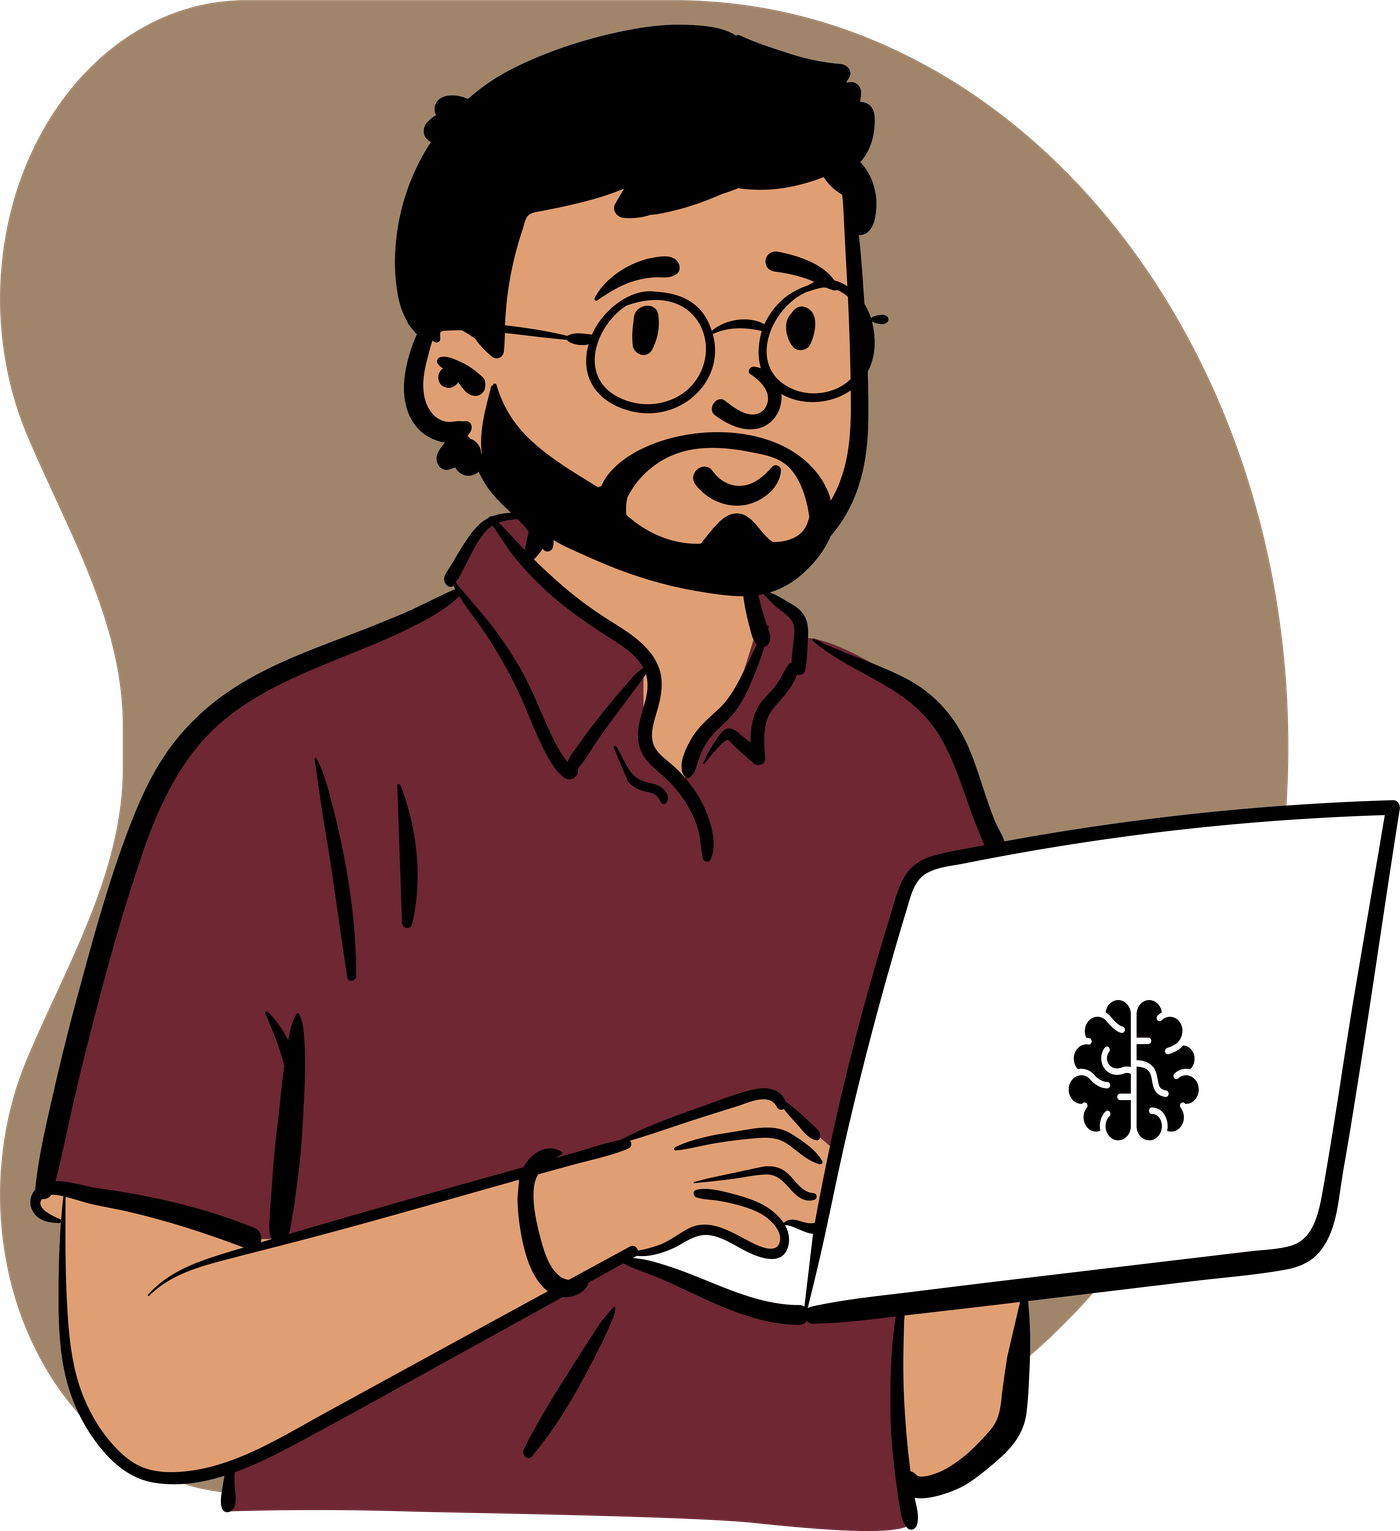
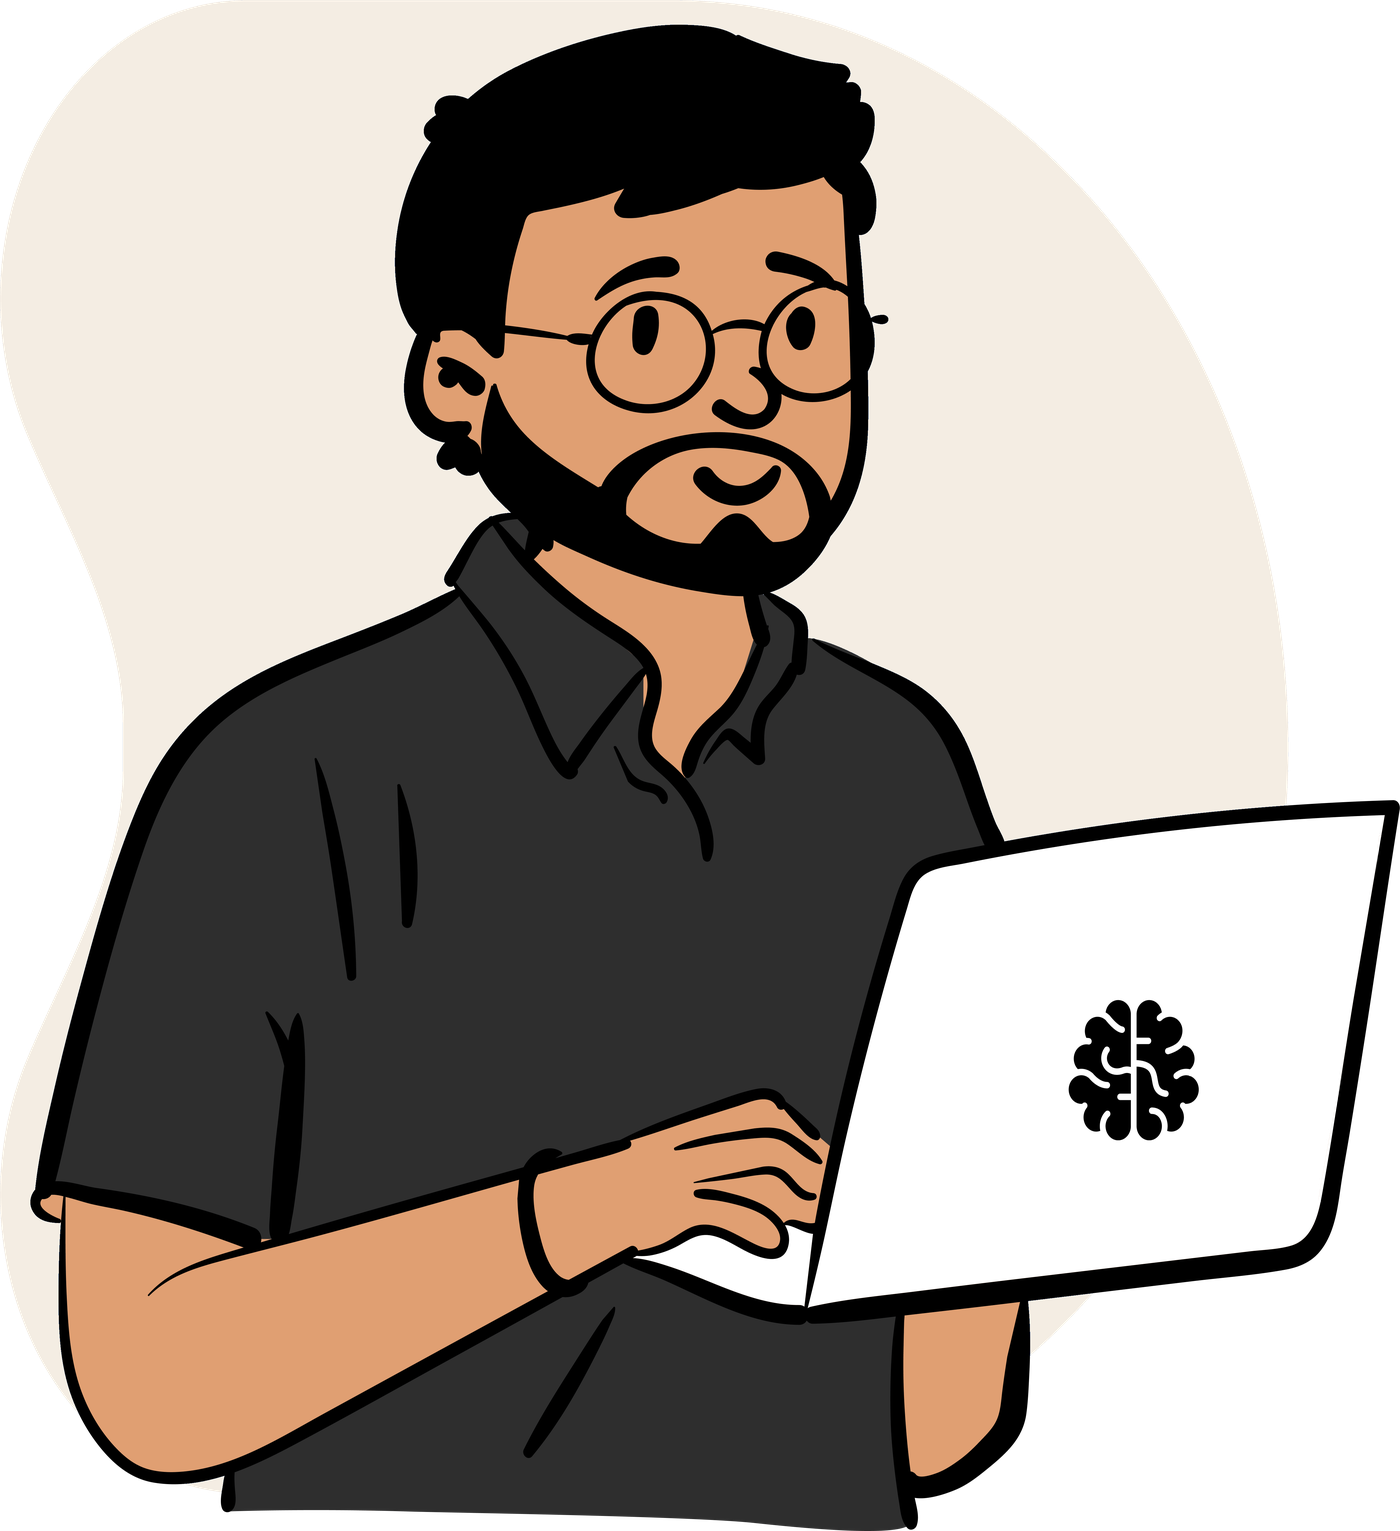
Homepage: research-first layout with Research/Data toggle + expandable Profile
Sliding switch swaps a data-driven project gallery (data/projects_*.yaml); Data track shows a coming-soon panel until entries exist. Profile button expands full CV inline. Nav simplified; hero unchanged.

Claude-Session: https://claude.ai/code/session_019dGmd9fw6D4sxH2Wq3JDTQ

diff --git a/static/css/index.css b/static/css/index.css
@@ -640,8 +640,17 @@ header .navbar { border-bottom: 2px solid var(--text-color); }
 header .navbar-nav a { text-transform: uppercase; letter-spacing: .05em; font-size: 14px; font-weight: 500; }
 
 #hero, #about, #experience, #education, #conferences, #contact { padding: 58px 0; }
+/* centered content column + gutters */
 #hero .container, #about .container, #experience .container, #education .container,
-#conferences .container, #contact .container { max-width: 1200px; }
+#projects .container, #conferences .container, #contact .container,
+footer .footer-inner {
+  max-width: 1120px; margin-left: auto; margin-right: auto;
+  padding-left: 28px; padding-right: 28px;
+}
+header .navbar > .container-fluid {
+  max-width: 1120px; margin-left: auto !important; margin-right: auto !important;
+  padding-left: 28px; padding-right: 28px;
+}
 
 .sec-label { font-family:'Bricolage Grotesque',sans-serif; font-size:14px; font-weight:600;
   letter-spacing:.06em; text-transform:uppercase; color: var(--text-link-color); margin:0 0 6px; }
@@ -766,3 +775,65 @@ footer .footer-links a:hover { color:var(--text-link-color) !important; }
 .proj-icon { color:var(--text-color) !important; font-size:16px; }
 .proj-icon:hover { color:var(--text-link-color) !important; }
 @media (max-width:900px){ .proj-grid{ grid-template-columns:1fr; } }
+
+
+/* ===== Direction D — oxblood lead ===== */
+.sec-head, .contact-head { color: var(--primary-color) !important; }
+
+/* deep oxblood hero band */
+#hero { background:#5A1E29; border-bottom-color:#2f0f16; }
+#hero .hero-role { color:#E6C98A !important; }
+#hero .hero-name { color:#F4EDE3 !important; }
+#hero .hero-tag { color:#EAD6D6 !important; }
+#hero a.btn.btn-fill { background:#F4EDE3 !important; color:#5A1E29 !important; border-color:#F4EDE3 !important; }
+#hero a.btn.btn-line { border-color:rgba(244,237,227,.6) !important; color:#F4EDE3 !important; }
+#hero .hero-social a.btn, #hero a.btn.social-icon { border-color:rgba(244,237,227,.6) !important; color:#F4EDE3 !important; }
+
+/* readable body text on cream */
+.about-content { opacity:1 !important; }
+.exp-desc, .edu-desc, .conf-note, .contact-tag { color: var(--text-secondary-color) !important; }
+
+
+/* ===== Homepage toggle + work + profile ===== */
+.hero-switchrow{display:flex; align-items:flex-end; justify-content:space-between; gap:20px; flex-wrap:wrap; margin-top:6px;}
+.switch-label{font-family:'IBM Plex Mono',monospace; font-size:12px; letter-spacing:.05em; text-transform:uppercase; color:var(--gold,#E6C98A); margin:0 0 8px;}
+.seg{position:relative; display:inline-flex; border:2px solid #F4EDE3; background:transparent;}
+.seg .thumb{position:absolute; top:0; left:0; bottom:0; width:50%; background:#F4EDE3; transition:transform .25s cubic-bezier(.4,.1,.2,1);}
+.seg[data-i="1"] .thumb{transform:translateX(100%);}
+.seg button{position:relative; z-index:1; font-family:'Bricolage Grotesque',sans-serif; font-weight:700; font-size:16px; padding:11px 24px; background:transparent; border:0; cursor:pointer; color:#F4EDE3; transition:color .2s; min-width:150px;}
+.seg button.on{color:#5A1E29;}
+.btn-profile{font-family:'Bricolage Grotesque',sans-serif; font-weight:700; font-size:16px; padding:12px 20px; background:transparent; color:#F4EDE3; border:2px solid rgba(244,237,227,.5); cursor:pointer;}
+.btn-profile:hover{border-color:#F4EDE3;}
+
+#work{padding:44px 0 56px; border-bottom:2px solid var(--text-color);}
+#work .container{max-width:1120px; margin-inline:auto; padding-left:28px; padding-right:28px;}
+.work-head{display:flex; align-items:flex-end; justify-content:space-between; gap:16px; flex-wrap:wrap;}
+.work-head .lab{font-family:'Bricolage Grotesque'; font-weight:600; font-size:14px; letter-spacing:.06em; text-transform:uppercase; color:var(--text-link-color); margin:0 0 4px;}
+.work-head h2{font-family:'Bricolage Grotesque'; font-size:clamp(24px,3.4vw,34px); font-weight:800; color:var(--primary-color) !important; margin:0; letter-spacing:-.01em;}
+.work-head .hint{font-size:12.5px; color:var(--text-secondary-color); margin-top:4px;}
+.harrows{display:flex; gap:8px;} .harrows[hidden]{display:none;}
+.harrows button{width:40px; height:40px; border:2px solid var(--text-color); background:transparent; color:var(--text-color); font-size:18px; cursor:pointer;}
+.harrows button:hover{background:var(--primary-color); color:#F4EDE3; border-color:var(--primary-color);}
+.panel[hidden]{display:none;}
+.track{display:flex; gap:22px; overflow-x:auto; scroll-snap-type:x mandatory; padding:22px 0 10px;}
+.card{scroll-snap-align:start; flex:0 0 min(420px,84%); border:2px solid var(--text-color); display:flex; flex-direction:column; background:var(--background-color);}
+.card .thumb{height:180px; border-bottom:2px solid var(--text-color); display:flex; align-items:flex-end; padding:16px;}
+.card .thumb.center{align-items:center; justify-content:center;}
+.card .thumb svg{width:100%; display:block;}
+.bg-oxblood{background:var(--primary-color);} .bg-ink{background:var(--text-color);} .bg-bronze{background:var(--text-link-color);}
+.card .body{padding:20px 22px; display:flex; flex-direction:column; flex:1;}
+.card .meta{font-family:'IBM Plex Mono'; font-size:12px; color:var(--text-link-color); margin:0 0 8px;}
+.card .badges{display:flex; gap:7px; flex-wrap:wrap; margin-bottom:10px;}
+.card .badge{font-size:11px; border:1px solid var(--text-link-color); color:var(--text-link-color); padding:3px 8px;}
+.card h3{font-family:'Bricolage Grotesque'; font-weight:700; font-size:20px; line-height:1.14; margin:0 0 8px; color:var(--text-color);}
+.card p{color:var(--text-secondary-color); font-size:14.5px; margin:0 0 14px;}
+.card .go{margin-top:auto; font-weight:600; color:var(--text-link-color) !important;}
+.soon{border:2px dashed var(--text-color); padding:52px 30px; text-align:center; margin-top:22px; background:var(--secondary-background-color);}
+.soon .pill{display:inline-block; margin-bottom:16px; font-family:'IBM Plex Mono'; font-size:12px; letter-spacing:.06em; text-transform:uppercase; color:var(--text-link-color); border:1px solid var(--text-link-color); padding:4px 12px;}
+.soon .big{font-family:'Bricolage Grotesque'; font-weight:800; font-size:clamp(24px,3.4vw,32px); color:var(--primary-color); margin:0 0 8px;}
+.soon p{color:var(--text-secondary-color); margin:0 auto; max-width:48ch;}
+
+#cv[hidden]{display:none;}
+.cv-bar{display:flex; align-items:center; justify-content:space-between; padding-top:26px; padding-bottom:2px;}
+.cv-title{font-family:'Bricolage Grotesque'; font-weight:800; font-size:22px; color:var(--primary-color);}
+.cv-close{font-weight:600; color:var(--text-link-color); background:transparent; border:0; cursor:pointer; font-size:14px;}

diff --git a/layouts/index.html b/layouts/index.html
@@ -1,0 +1,104 @@
+{{ define "head" }}
+<meta name="description" content="{{ .Site.Params.description }}">
+<link rel="stylesheet" href="{{ .Site.Params.staticPath }}/css/index.css" media="all">
+<link rel="stylesheet" href="{{ .Site.Params.staticPath }}/css/projects.css" media="all">
+<script defer src="{{ .Site.Params.staticPath }}/fontawesome-6/all-6.4.2.js"></script>
+{{ end }}
+{{ define "title" }}{{ .Site.Title }}{{ end }}
+{{ define "main" }}
+{{- partial "sections/hero/index.html" . -}}
+
+<section id="work">
+  <div class="container">
+    <div class="work-head">
+      <div>
+        <p class="lab" id="workLab">Research</p>
+        <h2 id="workHead">Neuroscience of individuality</h2>
+        <p class="hint" id="workHint">Scroll sideways, or use the arrows.</p>
+      </div>
+      <div class="harrows" id="workArrows"><button data-dir="-1" aria-label="Previous">&#8249;</button><button data-dir="1" aria-label="Next">&#8250;</button></div>
+    </div>
+
+    <div class="panel" id="p-research">
+      <div class="track">
+        {{ range .Site.Data.projects_research.items }}
+        <article class="card">
+          <div class="thumb center bg-{{ .bg }}">{{ partial "viz" .viz }}</div>
+          <div class="body">
+            <div class="meta">{{ .kind }}</div>
+            <div class="badges">{{ range .badges }}<span class="badge">{{ . }}</span>{{ end }}</div>
+            <h3>{{ .title }}</h3>
+            <p>{{ .content | markdownify }}</p>
+            <a class="go" href="{{ .link }}">Read the research &rarr;</a>
+          </div>
+        </article>
+        {{ end }}
+      </div>
+    </div>
+
+    <div class="panel" id="p-data" hidden>
+      {{ if .Site.Data.projects_data.items }}
+      <div class="track">
+        {{ range .Site.Data.projects_data.items }}
+        <article class="card">
+          <div class="thumb center bg-{{ .bg }}">{{ partial "viz" .viz }}</div>
+          <div class="body">
+            <div class="meta">{{ .kind }}</div>
+            <div class="badges">{{ range .badges }}<span class="badge">{{ . }}</span>{{ end }}</div>
+            <h3>{{ .title }}</h3>
+            <p>{{ .content | markdownify }}</p>
+            <a class="go" href="{{ .link }}">View project &rarr;</a>
+          </div>
+        </article>
+        {{ end }}
+      </div>
+      {{ else }}
+      <div class="soon">
+        <span class="pill">In progress</span>
+        <p class="big">Data projects &mdash; coming soon</p>
+        <p>I&rsquo;m building a portfolio of independent data analysis projects &mdash; sleep &amp; health, business analytics, and SQL deep-dives. They&rsquo;ll land here shortly.</p>
+      </div>
+      {{ end }}
+    </div>
+  </div>
+</section>
+
+<div id="cv" hidden>
+  <div class="container cv-bar"><span class="cv-title">Profile</span><button class="cv-close" id="cvClose">Hide &#10005;</button></div>
+  {{- partial "sections/about.html" . -}}
+  {{- partial "sections/experience.html" . -}}
+  {{- partial "sections/education.html" . -}}
+  {{- partial "sections/achievements.html" . -}}
+  {{- partial "sections/contact.html" . -}}
+</div>
+
+<script>
+(function(){
+  var seg=document.getElementById('workSwitch');
+  var panels={research:document.getElementById('p-research'), data:document.getElementById('p-data')};
+  var lab=document.getElementById('workLab'), head=document.getElementById('workHead'), hint=document.getElementById('workHint'), arrows=document.getElementById('workArrows');
+  var copy={research:['Research','Neuroscience of individuality',false], data:['Data analysis','Turning data into decisions',true]};
+  if(seg){ seg.querySelectorAll('button').forEach(function(b){
+    b.addEventListener('click',function(){
+      seg.dataset.i=b.dataset.i;
+      seg.querySelectorAll('button').forEach(function(x){var on=x===b; x.classList.toggle('on',on); x.setAttribute('aria-selected',String(on));});
+      var key=b.dataset.panel;
+      Object.keys(panels).forEach(function(k){ panels[k].hidden=(k!==key); });
+      lab.textContent=copy[key][0]; head.textContent=copy[key][1];
+      arrows.hidden=copy[key][2]; hint.style.visibility=copy[key][2]?'hidden':'visible';
+    });
+  }); }
+  document.querySelectorAll('#workArrows button').forEach(function(b){
+    b.addEventListener('click',function(){
+      var track=document.querySelector('#work .panel:not([hidden]) .track'); if(!track) return;
+      var c=track.querySelector('.card'); var w=c?c.getBoundingClientRect().width+22:360;
+      track.scrollBy({left:(+b.dataset.dir)*w, behavior:'smooth'});
+    });
+  });
+  var cv=document.getElementById('cv'), pb=document.getElementById('profileBtn');
+  function toggleCV(open){ cv.hidden=!open; pb.setAttribute('aria-expanded',String(open)); pb.innerHTML=open?'&#9662; Hide profile':'&#9656; Profile / CV'; if(open){ cv.scrollIntoView({behavior:'smooth',block:'start'}); } }
+  if(pb){ pb.addEventListener('click',function(){ toggleCV(cv.hidden); }); }
+  var cc=document.getElementById('cvClose'); if(cc){ cc.addEventListener('click',function(){ toggleCV(false); document.getElementById('hero').scrollIntoView({behavior:'smooth'}); }); }
+})();
+</script>
+{{ end }}

diff --git a/layouts/partials/sections/hero/index.html b/layouts/partials/sections/hero/index.html
@@ -6,10 +6,16 @@
         <div class="hero-role">{{ .Site.Params.hero.subtitle }}</div>
         <h1 class="hero-name">{{ .Site.Params.hero.title }}</h1>
         <div class="hero-tag">{{ .Site.Params.hero.content | markdownify }}</div>
-        <div class="hero-actions">
-          {{ if .Site.Params.hero.button.enable }}<a class="btn btn-fill" href="{{ .Site.Params.hero.button.url }}"{{ if .Site.Params.hero.button.download }} download{{ end }}{{ if .Site.Params.hero.button.newPage | default true }} target="_blank"{{ end }}>{{ .Site.Params.hero.button.name }}</a>{{ end }}
-          {{ if .Site.Params.hero.button3.enable }}<a class="btn btn-line" href="{{ .Site.Params.hero.button3.url }}"{{ if .Site.Params.hero.button3.newPage }} target="_blank"{{ end }}>{{ .Site.Params.hero.button3.name }}</a>{{ end }}
-          <span class="hero-social">{{ partial "sections/hero/social.html" . }}</span>
+        <div class="hero-switchrow">
+          <div>
+            <p class="switch-label">View my work</p>
+            <div class="seg" data-i="0" id="workSwitch" role="tablist" aria-label="Project type">
+              <span class="thumb"></span>
+              <button class="on" role="tab" aria-selected="true" data-i="0" data-panel="research">Research</button>
+              <button role="tab" aria-selected="false" data-i="1" data-panel="data">Data Analysis</button>
+            </div>
+          </div>
+          <button class="btn-profile" id="profileBtn" aria-expanded="false">&#9656; Profile / CV</button>
         </div>
       </div>
       <div class="hero-figure {{ if .Site.Params.animate }}animate{{ end }}">

diff --git a/layouts/partials/viz.html b/layouts/partials/viz.html
@@ -1,0 +1,4 @@
+{{- if eq . "wave" -}}<svg viewBox="0 0 300 120" width="82%"><g stroke="#E6C98A" stroke-width="2.5" fill="none"><path d="M30 60 q30 -42 70 0 q30 42 70 0 q30 -42 70 0"/></g><g fill="#F4EDE3"><circle cx="30" cy="60" r="5"/><circle cx="100" cy="60" r="5"/><circle cx="170" cy="60" r="5"/><circle cx="240" cy="60" r="5"/></g></svg>
+{{- else if eq . "atom" -}}<svg viewBox="0 0 220 120" width="60%"><g stroke="#E6C98A" stroke-width="3" fill="none" stroke-linecap="round"><circle cx="110" cy="60" r="42"/><path d="M110 24 L110 96 M74 60 L146 60 M85 35 L135 85 M135 35 L85 85"/></g></svg>
+{{- else if eq . "bars" -}}<svg viewBox="0 0 360 150"><g fill="#6E2733"><rect x="10" y="60" width="34" height="90"/><rect x="60" y="42" width="34" height="108"/></g><g fill="#8C5E2C"><rect x="170" y="26" width="34" height="124"/><rect x="220" y="40" width="34" height="110"/><rect x="270" y="18" width="34" height="132"/></g></svg>
+{{- end -}}
